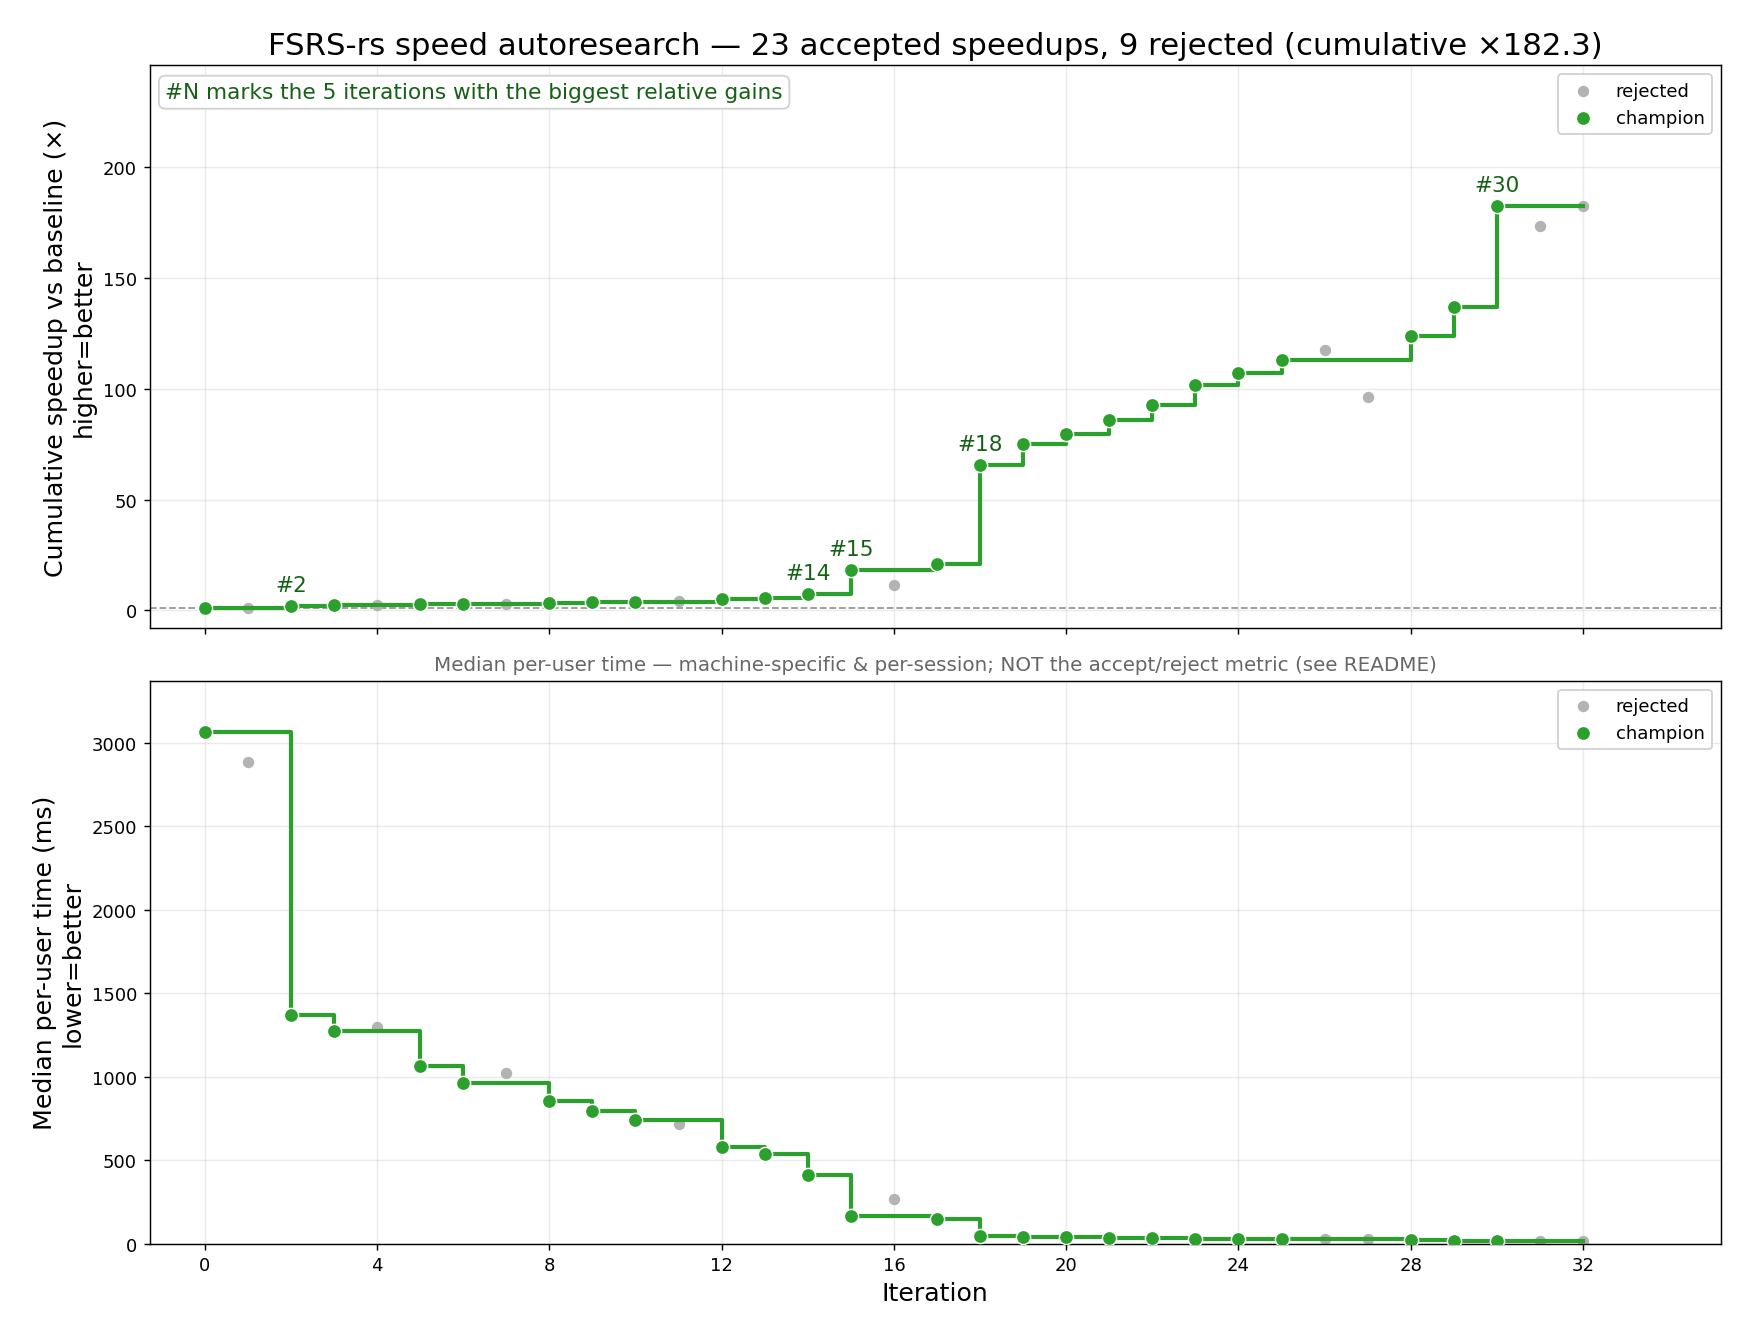
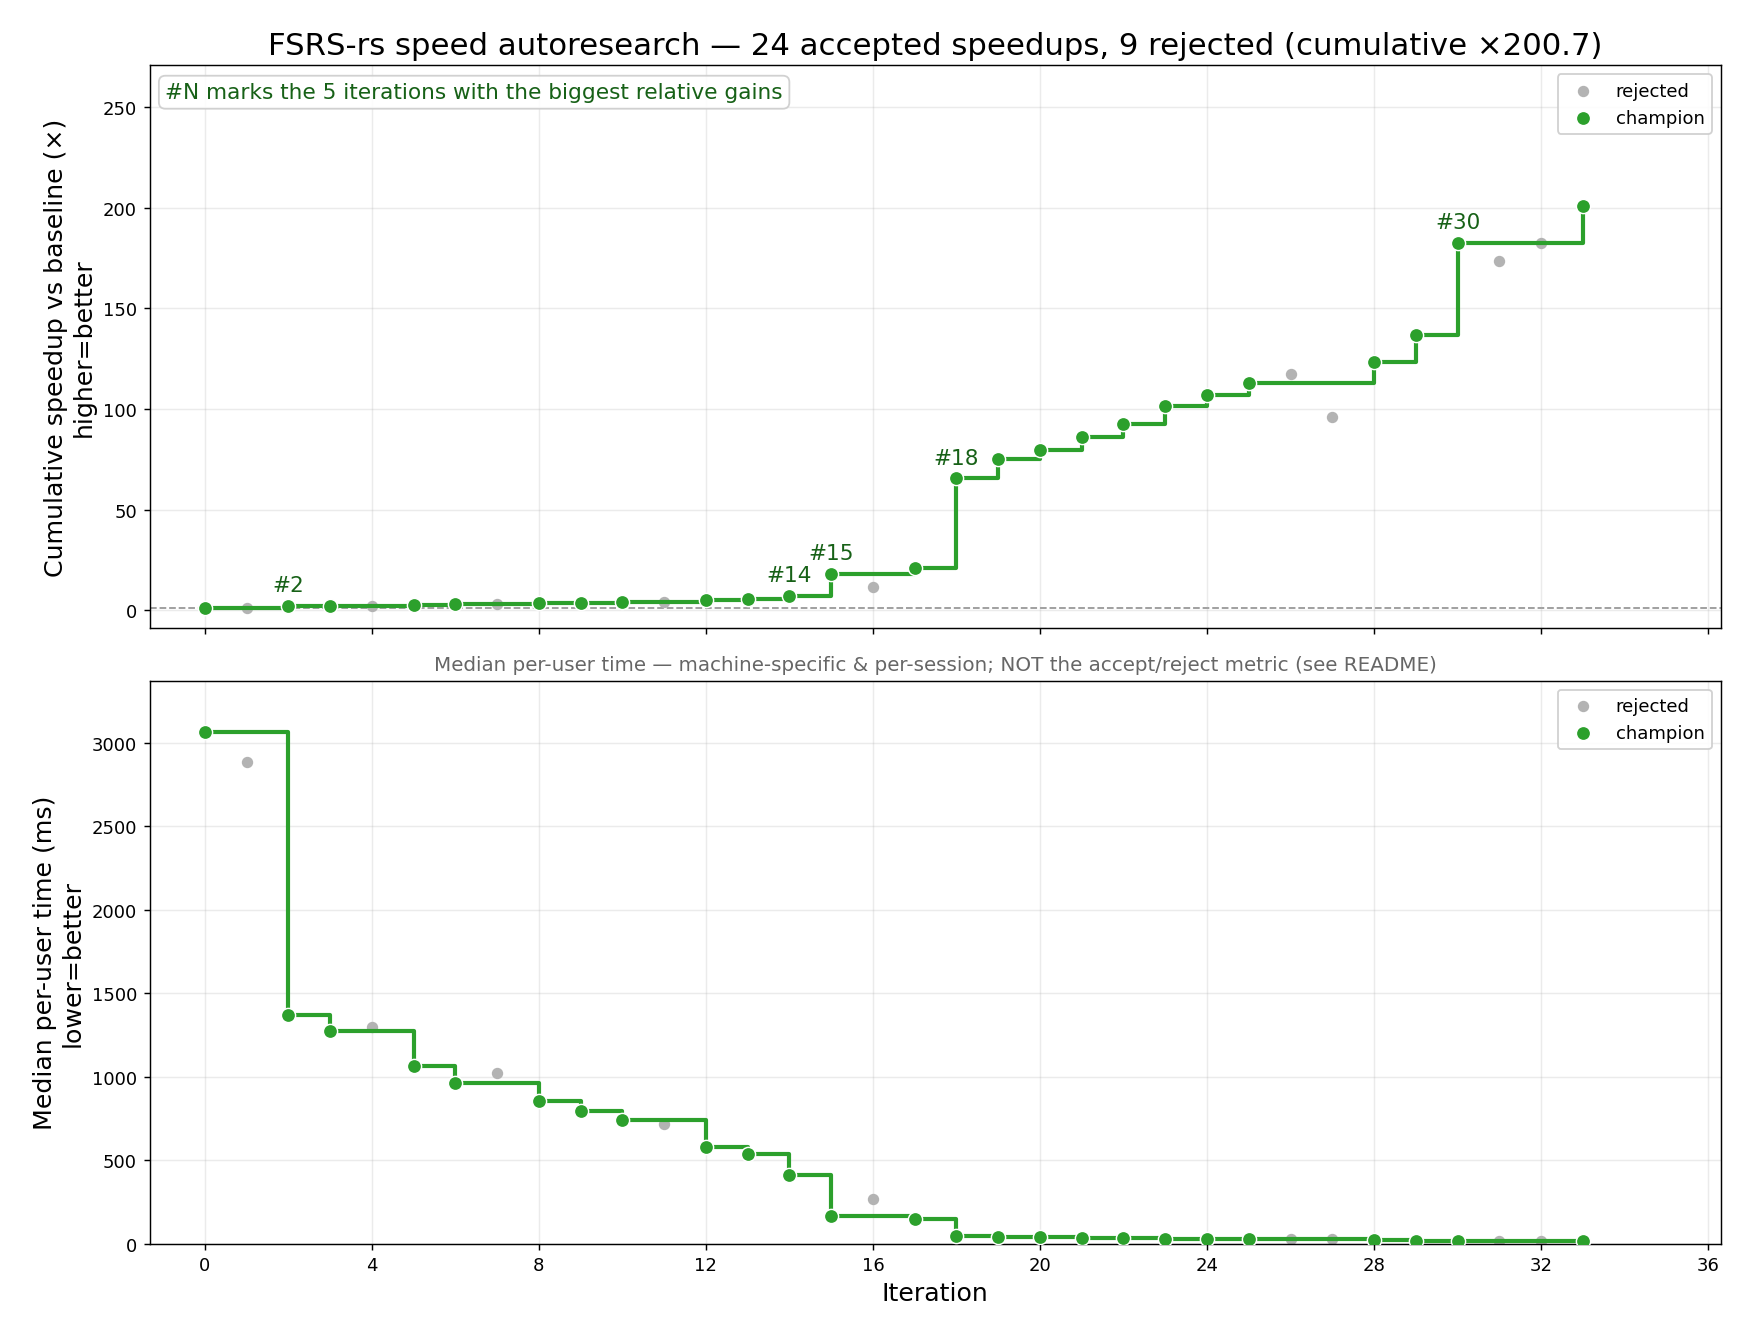
iter33 ACCEPTED: exp8 single-convert rounding + peel first step + smaller cache (x1.101, bit-for-bit)
On the SSE2 baseline, wide's round()/round_int() carry NaN/overflow fix-ups;
exp8's clamp makes them unnecessary, so one nearest-even convert serves both.

diff --git a/fsrs-rs/src/analytic.rs b/fsrs-rs/src/analytic.rs
@@ -45,8 +45,12 @@ fn clamp8(x: f32x8, lo: f32, hi: f32) -> f32x8 {
 /// so the `true` branch is currently UNUSED (retained for a possible future precision A/B). Portable (c7).
 #[inline(always)]
 fn exp8<const FAST: bool>(x: f32x8) -> f32x8 {
+    // The clamp also maps NaN to -87 (maxps returns its 2nd operand on NaN), so x*LOG2E is finite
+    // and within +-128: ONE plain nearest-even convert gives n exactly as round() did (bit-for-bit),
+    // without round()'s and round_int()'s NaN/overflow fix-ups (~10 extra ops per half on SSE2).
     let x = x.fast_max(f32x8::splat(-87.0)).fast_min(f32x8::splat(88.0));
-    let n = (x * f32x8::splat(LOG2E)).round();
+    let ni = (x * f32x8::splat(LOG2E)).fast_round_int();
+    let n = ni.round_float();
     let r = x - n * f32x8::splat(LN2);
     let c = |v: f32| f32x8::splat(v);
     let p = if FAST {
@@ -56,7 +60,7 @@ fn exp8<const FAST: bool>(x: f32x8) -> f32x8 {
         // degree-3 RELATIVE-minimax (Remez); max rel err 7.5e-5 (profiling/minimax_coeffs.py).
         c(0.999928073539) + r * (c(1.00016418577) + r * (c(0.50496326418) + r * c(0.165668423429)))
     };
-    let bits: i32x8 = (n.round_int() + i32x8::splat(127)) << 23;
+    let bits: i32x8 = (ni + i32x8::splat(127)) << 23;
     let two_n: f32x8 = bytemuck::cast(bits);
     p * two_n
 }
@@ -628,10 +632,6 @@ struct Curve8 {
     out: f32x8,
     a: f32x8,
     bv: f32x8,
-    m1: f32x8,
-    decay1: f32x8,
-    factor1: f32x8,
-    b1: f32x8,
     r1: f32x8,
     q1: f32x8,
     e1: f32x8,
@@ -639,9 +639,6 @@ struct Curve8 {
     b2: f32x8,
     r2: f32x8,
     ex34: f32x8,
-    weight1: f32x8,
-    weight2: f32x8,
-    wsum: f32x8,
     ret: f32x8,
     p31: f32x8,
     se: f32x8,
@@ -694,8 +691,7 @@ fn curve8_fwd<const FAST: bool>(
     let ret = num / wsum;
     let out = ret * k(1.0 - 2e-5) + k(1e-5);
     Curve8 {
-        out, a, bv, m1, decay1, factor1, b1, r1, q1, e1, p35, b2, r2, ex34, weight1, weight2, wsum,
-        ret, p31, se, ln_sf, ln_b1, ln_b2, ln_s,
+        out, a, bv, r1, q1, e1, p35, b2, r2, ex34, ret, p31, se, ln_sf, ln_b1, ln_b2, ln_s,
     }
 }
 
@@ -711,14 +707,22 @@ fn curve8_bwd(
     let k = f32x8::splat;
     let z = k(0.0);
     let t = t.fast_max(z);
+    // Cheap forward values recomputed with curve8_fwd's exact ops (smaller per-step cache).
+    let m1 = sp(23) * c.p35;
+    let decay1 = k(0.0) - clamp8(m1, 0.01, 0.95);
+    let factor1 = c.e1 - k(1.0);
+    let b1 = c.a * factor1 + k(1.0);
+    let weight1 = sp(27) * c.p31;
+    let weight2 = sp(28) * c.se;
+    let wsum = weight1 + weight2;
     let g_ret = g_out * k(1.0 - 2e-5);
-    let g_num = g_ret / c.wsum;
-    let g_wsum = (z - g_ret) * c.ret / c.wsum;
+    let g_num = g_ret / wsum;
+    let g_wsum = (z - g_ret) * c.ret / wsum;
     let g_weight1 = g_num * c.r1 + g_wsum;
     let g_weight2 = g_num * c.r2 + g_wsum;
     // r1 also feeds the short-trace stability update (reads r1, not mixed R) -> g_r1_extra.
-    let g_r1 = g_num * c.weight1 + g_r1_extra;
-    let g_r2 = g_num * c.weight2;
+    let g_r1 = g_num * weight1 + g_r1_extra;
+    let g_r2 = g_num * weight2;
     // weight2 = base_weight2[w28] * se ; se = exp(w30*ln_s + (w31-0.5)*(d-5))  (fused)
     gw[28] += g_weight2 * c.se;
     let g_se = g_weight2 * sp(28) * c.se; // adjoint-on-se times se (shared d(se)/d(.) factor)
@@ -749,19 +753,19 @@ fn curve8_bwd(
     gw[24] += g_m2; // m2 = w24 directly (clamp gate via c.m2)
     g_s += g_bv * (z - t / (s * s)); // bv = t/s
     // r1 = b1^decay1
-    let g_b1 = g_r1 * c.decay1 * (c.r1 / c.b1);
+    let g_b1 = g_r1 * decay1 * (c.r1 / b1);
     let mut g_decay1 = g_r1 * c.r1 * c.ln_b1;
-    let g_a = g_b1 * c.factor1;
+    let g_a = g_b1 * factor1;
     let g_factor1 = g_b1 * c.a;
     let g_e1 = g_factor1;
     let g_q1c = g_e1 * c.e1;
     let g_q1 = c.q1.cmp_lt(k(60.0)).blend(g_q1c, z);
     // q1 = ln(base1) / decay1
-    let g_lw27 = g_q1 / c.decay1;
-    g_decay1 += g_q1 * (z - k(wc.ln_w27) / (c.decay1 * c.decay1));
+    let g_lw27 = g_q1 / decay1;
+    g_decay1 += g_q1 * (z - k(wc.ln_w27) / (decay1 * decay1));
     gw[25] += g_lw27 / sp(25); // ln_base1 = ln(w[25])
     let g_dm1 = z - g_decay1;
-    let g_m1 = (c.m1.cmp_gt(k(0.01)) & c.m1.cmp_lt(k(0.95))).blend(g_dm1, z);
+    let g_m1 = (m1.cmp_gt(k(0.01)) & m1.cmp_lt(k(0.95))).blend(g_dm1, z);
     gw[23] += g_m1 * c.p35; // m1 = decay1[w23] * p35
     let g_p35 = g_m1 * sp(23);
     g_sf += g_p35 * (sp(33) - k(0.3)) * (c.p35 / sf); // p35 = s_short^(s_decay1-0.3)
@@ -774,19 +778,11 @@ fn curve8_bwd(
 struct Stab8 {
     out: f32x8,
     nsf_fail: f32x8,
-    pls: f32x8,
     sinc: f32x8,
-    ls_sinc: f32x8,
-    aa: f32x8,
-    bb: f32x8,
     cc: f32x8,
     expr: f32x8,
     pr: f32x8,
     qbase: f32x8,
-    hard: f32x8,
-    easy: f32x8,
-    ln_ls: f32x8,
-    ln_ld: f32x8,
     ln_ls1: f32x8,
 }
 
@@ -794,7 +790,7 @@ struct Stab8 {
 #[inline(always)]
 fn stab8_fwd<const FAST: bool>(
     w: &[f32], last_s: f32x8, last_d: f32x8, r: f32x8, rating: f32x8, start: usize, aa: f32,
-    ln_ls: f32x8, ln_ld: f32x8,
+    ln_ls: f32x8,
 ) -> Stab8 {
     let sp = |i: usize| f32x8::splat(w[i]);
     let k = f32x8::splat;
@@ -804,7 +800,7 @@ fn stab8_fwd<const FAST: bool>(
     let ln_ls1 = ln8::<FAST>(last_s + one);
     let qbase = exp8::<FAST>(sp(start + 4) * ln_ls1); // (last_s+1)^fail_s_exp[start+4]
     // fail_d_exp DROPPED: post-lapse stability is D-independent, so the legacy `pr` cache field now
-    // holds just rexp (no pp = last_d^-fail_d_exp factor; ln_ld unused, kept in cache for layout).
+    // holds just rexp (no pp = last_d^-fail_d_exp factor, so ln(last_d) is not needed).
     let pr = exp8::<FAST>((one - r) * sp(start + 5)); // rexp = exp((1-r)*fail_r_mult[start+5])
     let nsf_fail = sp(start + 3) * pr * (qbase - one);
     let pls = last_s.fast_min(nsf_fail);
@@ -816,10 +812,7 @@ fn stab8_fwd<const FAST: bool>(
     let ls_sinc = last_s * sinc;
     let nss = pls.fast_max(ls_sinc);
     let out = rating.cmp_gt(one).blend(nss, pls);
-    Stab8 {
-        out, nsf_fail, pls, sinc, ls_sinc, aa: aa8, bb, cc, expr, pr, qbase, hard, easy,
-        ln_ls, ln_ld, ln_ls1,
-    }
+    Stab8 { out, nsf_fail, sinc, cc, expr, pr, qbase, ln_ls1 }
 }
 
 /// VJP of stab8_fwd (f32x8 analogue of stab_bwd). Returns (g_last_s, g_last_d, g_r).
@@ -827,19 +820,25 @@ fn stab8_fwd<const FAST: bool>(
 #[inline(always)]
 fn stab8_bwd(
     w: &[f32], c: &Stab8, last_s: f32x8, last_d: f32x8, r: f32x8, rating: f32x8, start: usize,
-    g_out: f32x8, gw: &mut [f32x8; 34],
+    aa: f32, ln_ls: f32x8, g_out: f32x8, gw: &mut [f32x8; 34],
 ) -> (f32x8, f32x8, f32x8) {
     let sp = |i: usize| f32x8::splat(w[i]);
     let k = f32x8::splat;
     let one = k(1.0);
     let z = k(0.0);
-    let _ = last_d; // post-lapse stability is D-independent now (fail_d_exp dropped)
+    // aa / hard / easy / ln_ls are recomputed or passed in (not cached): the same values stab8_fwd used.
+    let aa = k(aa);
+    let hard = rating.cmp_eq(k(2.0)).blend(sp(start + 6), one);
+    let easy = rating.cmp_eq(k(4.0)).blend(sp(start + 7), one);
+    let pls = last_s.fast_min(c.nsf_fail);
+    let ls_sinc = last_s * c.sinc;
+    let bb = k(11.0) - last_d;
     let gt1 = rating.cmp_gt(one);
     let g_nss = gt1.blend(g_out, z);
     let g_pls_direct = gt1.blend(z, g_out);
     // nss = max(pls, ls_sinc)  (ties to pls, matching the scalar >= / > split)
-    let g_pls_from_nss = c.pls.cmp_ge(c.ls_sinc).blend(g_nss, z);
-    let g_ls_sinc = c.ls_sinc.cmp_gt(c.pls).blend(g_nss, z);
+    let g_pls_from_nss = pls.cmp_ge(ls_sinc).blend(g_nss, z);
+    let g_ls_sinc = ls_sinc.cmp_gt(pls).blend(g_nss, z);
     let mut g_last_s = g_ls_sinc * c.sinc;
     let g_sinc = g_ls_sinc * last_s;
     let g_pls = g_pls_direct + g_pls_from_nss;
@@ -849,16 +848,16 @@ fn stab8_bwd(
     // sinc = aa*bb*cc*(expr-1)*hard*easy + 1
     let em1 = c.expr - one;
     let g_prod = g_sinc;
-    let prod = c.aa * c.bb * c.cc * em1 * c.hard * c.easy;
+    let prod = aa * bb * c.cc * em1 * hard * easy;
     gw[start] += g_prod * prod; // aa = exp(w[start]-1.5); dprod/dw[start] = prod
-    let g_bb = g_prod * (c.aa * c.cc * em1 * c.hard * c.easy);
-    let g_cc = g_prod * (c.aa * c.bb * em1 * c.hard * c.easy);
-    let g_em1 = g_prod * (c.aa * c.bb * c.cc * c.hard * c.easy);
-    gw[start + 6] += rating.cmp_eq(k(2.0)).blend(g_prod * (c.aa * c.bb * c.cc * em1 * c.easy), z); // hard_penalty
-    gw[start + 7] += rating.cmp_eq(k(4.0)).blend(g_prod * (c.aa * c.bb * c.cc * em1 * c.hard), z); // easy_bonus
+    let g_bb = g_prod * (aa * c.cc * em1 * hard * easy);
+    let g_cc = g_prod * (aa * bb * em1 * hard * easy);
+    let g_em1 = g_prod * (aa * bb * c.cc * hard * easy);
+    gw[start + 6] += rating.cmp_eq(k(2.0)).blend(g_prod * (aa * bb * c.cc * em1 * easy), z); // hard_penalty
+    gw[start + 7] += rating.cmp_eq(k(4.0)).blend(g_prod * (aa * bb * c.cc * em1 * hard), z); // easy_bonus
     let g_last_d = g_bb * (z - one); // bb = 11 - last_d (the ONLY D-dependence of stab now)
     g_last_s += g_cc * k(-w[start + 1]) * (c.cc / last_s);
-    gw[start + 1] += g_cc * (z - c.cc * c.ln_ls);
+    gw[start + 1] += g_cc * (z - c.cc * ln_ls);
     // expr = exp((1-r)*w[start+2])
     let mut g_r = g_em1 * c.expr * k(-w[start + 2]);
     gw[start + 2] += g_em1 * c.expr * (one - r);
@@ -960,11 +959,10 @@ pub(crate) fn batch_loss_simd(
                 let sf_c = clamp8(sf, S_MIN, S_MAX);
                 let ln_s = ln8::<false>(s_c);
                 let ln_sf = ln8::<false>(sf_c);
-                let ln_d = ln8::<false>(d_c);
                 let curve = curve8_fwd::<false>(w, dt, s_c, sf_c, d_c, &wc, ln_s, ln_sf);
                 let rr = curve.out;
-                let ns = stab8_fwd::<false>(w, s_c, d_c, rr, rating, 7, wc.aa7, ln_s, ln_d).out;
-                let nsf_raw = stab8_fwd::<false>(w, sf_c, d_c, curve.r1, rating, 15, wc.aa16, ln_sf, ln_d).out;
+                let ns = stab8_fwd::<false>(w, s_c, d_c, rr, rating, 7, wc.aa7, ln_s).out;
+                let nsf_raw = stab8_fwd::<false>(w, sf_c, d_c, curve.r1, rating, 15, wc.aa16, ln_sf).out;
                 // POST-LAPSE short reset: on a lapse cap s_short at 0.8 * post-lapse s_long.
                 let nsf = rating.cmp_eq(one).blend(nsf_raw.fast_min(k(0.8) * ns), nsf_raw);
                 let nd = next_d8_fwd(w, d_c, rating, rr, wc.init).0;
@@ -1024,9 +1022,6 @@ enum Step8 {
         s0: f32x8,
         d0: f32x8,
         sf0: f32x8,
-        last_s: f32x8,
-        last_sf: f32x8,
-        last_d: f32x8,
         rating: f32x8,
         dt: f32x8,
         curve: Curve8,
@@ -1034,8 +1029,6 @@ enum Step8 {
         fast: Stab8,
         nd_out_pre: f32x8,
         nd_delta_d: f32x8,
-        ns3: f32x8,
-        nsf3: f32x8,
     },
 }
 
@@ -1084,12 +1077,11 @@ fn step8_fwd<const FAST: bool>(
         let dt = dt_raw.fast_max(k(0.0));
         let ln_last_s = ln8::<FAST>(last_s);
         let ln_last_sf = ln8::<FAST>(last_sf);
-        let ln_last_d = ln8::<FAST>(last_d);
         let curve = curve8_fwd::<FAST>(w, dt, last_s, last_sf, last_d, wc, ln_last_s, ln_last_sf);
         let r = curve.out;
         let r1 = curve.r1; // short component recall — drives the short-trace update (iter-71)
-        let slow = stab8_fwd::<FAST>(w, last_s, last_d, r, rating, 7, wc.aa7, ln_last_s, ln_last_d);
-        let fast = stab8_fwd::<FAST>(w, last_sf, last_d, r1, rating, 15, wc.aa16, ln_last_sf, ln_last_d);
+        let slow = stab8_fwd::<FAST>(w, last_s, last_d, r, rating, 7, wc.aa7, ln_last_s);
+        let fast = stab8_fwd::<FAST>(w, last_sf, last_d, r1, rating, 15, wc.aa16, ln_last_sf);
         let (nd, nd_out_pre, nd_delta_d) = next_d8_fwd(w, last_d, rating, r, wc.init);
         // POST-LAPSE short reset (iter-97): on a lapse cap s_short at 0.8 * post-lapse s_long.
         let nsf_pre = rating.cmp_eq(one).blend(fast.out.fast_min(k(0.8) * slow.out), fast.out);
@@ -1102,8 +1094,7 @@ fn step8_fwd<const FAST: bool>(
         (
             out,
             Step8::Full {
-                s0, d0, sf0, last_s, last_sf, last_d, rating, dt, curve, slow, fast,
-                nd_out_pre, nd_delta_d, ns3, nsf3,
+                s0, d0, sf0, rating, dt, curve, slow, fast, nd_out_pre, nd_delta_d,
             },
         )
     }
@@ -1142,14 +1133,20 @@ fn step8_bwd(
             (z, z, z)
         }
         Step8::Full {
-            s0, d0, sf0, last_s, last_sf, last_d, rating, dt, curve, slow, fast, nd_out_pre,
-            nd_delta_d, ns3, nsf3,
+            s0, d0, sf0, rating, dt, curve, slow, fast, nd_out_pre, nd_delta_d,
         } => {
+            // Cheap forward values recomputed with step8_fwd's exact ops (smaller per-step cache).
+            let last_s = clamp8(*s0, S_MIN, S_MAX);
+            let last_d = clamp8(*d0, D_MIN, D_MAX);
+            let last_sf = clamp8(*sf0, S_MIN, S_MAX);
+            let m0 = rating.cmp_eq(z);
+            let ns3 = m0.blend(last_s, slow.out);
+            let nsf_pre = rating.cmp_eq(one).blend(fast.out.fast_min(k(0.8) * slow.out), fast.out);
+            let nsf3 = m0.blend(last_sf, nsf_pre);
             let g_ns3 = (ns3.cmp_gt(k(S_MIN)) & ns3.cmp_lt(k(S_MAX))).blend(g_ns_out, z);
             let g_nsf3 = (nsf3.cmp_gt(k(S_MIN)) & nsf3.cmp_lt(k(S_MAX))).blend(g_nsf_out, z);
             let g_nd3 = g_nd_out;
             // rating==0 padding: output state == input state, so the adjoint flows straight through.
-            let m0 = rating.cmp_eq(z);
             let g_ns2 = m0.blend(z, g_ns3);
             let g_nsf2 = m0.blend(z, g_nsf3); // adjoint on nsf_pre
             let g_nd2 = m0.blend(z, g_nd3);
@@ -1163,14 +1160,20 @@ fn step8_bwd(
             let g_slow_from_relearn = is_lapse.blend(fast_wins.blend(z, g_nsf2 * k(0.8)), z);
             // LONG stab reads mixed retention curve.out; SHORT stab reads r1=curve.r1 (start 15).
             let (g_ls_a, g_ld_a, g_r_long) =
-                stab8_bwd(w, slow, *last_s, *last_d, curve.out, *rating, 7, g_ns2 + g_slow_from_relearn, gw);
+                stab8_bwd(
+                    w, slow, last_s, last_d, curve.out, *rating, 7, wc.aa7, curve.ln_s,
+                    g_ns2 + g_slow_from_relearn, gw,
+                );
             let (g_lsf_b, g_ld_b, g_r1_short) =
-                stab8_bwd(w, fast, *last_sf, *last_d, curve.r1, *rating, 15, g_fast_out, gw);
+                stab8_bwd(
+                    w, fast, last_sf, last_d, curve.r1, *rating, 15, wc.aa16, curve.ln_sf, g_fast_out,
+                    gw,
+                );
             let (g_ld_c, g_r_nextd) =
-                next_d8_bwd(w, *nd_out_pre, *nd_delta_d, *last_d, *rating, curve.out, g_nd2, gw, wc.exp3w5);
+                next_d8_bwd(w, *nd_out_pre, *nd_delta_d, last_d, *rating, curve.out, g_nd2, gw, wc.exp3w5);
             // curve.out adjoint = long-stab r + windowed loss adjoint + next_d r; curve.r1 = short-stab r.
             let (g_ls_d, g_lsf_d, g_ld_d) = curve8_bwd(
-                w, curve, *dt, *last_s, *last_sf, *last_d, g_r_long + g_r_loss + g_r_nextd, g_r1_short,
+                w, curve, *dt, last_s, last_sf, last_d, g_r_long + g_r_loss + g_r_nextd, g_r1_short,
                 gw, wc,
             );
             let g_last_s = g_ls_a + g_ls_d + g_last_s_extra;
@@ -1333,15 +1336,17 @@ pub(crate) fn card_loss_and_grad_simd(
         let (mut s, mut d, mut sf) = (z, z, z);
         // Forward over every step EXCEPT the last (full step + cache). The last step's stability/
         // next-difficulty update feeds no t+1, so we compute its curve only (just below) — exactly
-        // like card_loss_simd's validation skip-last.
-        for t in 0..seq_len - 1 {
+        // like card_loss_simd's validation skip-last. The first review (t==0) is peeled off, so the
+        // loop body has no t==0 branch.
+        let (ns, cache) = step8_fwd::<false>(w, z, load8(r_hist, c0), (s, d, sf), true, &wc);
+        (s, d, sf) = ns;
+        caches.push(cache);
+        for t in 1..seq_len - 1 {
             let base = t * batch + c0;
-            let rating = load8(r_hist, base);
-            let dt = if t == 0 { z } else { load8(t_hist, base) };
-            let (ns, cache) = step8_fwd::<false>(w, dt, rating, (s, d, sf), t == 0, &wc);
-            s = ns.0;
-            d = ns.1;
-            sf = ns.2;
+            let (ns, cache) = step8_fwd::<false>(
+                w, load8(t_hist, base), load8(r_hist, base), (s, d, sf), false, &wc,
+            );
+            (s, d, sf) = ns;
             caches.push(cache);
         }
         // Last step (t = seq_len-1, always >= 1): curve ONLY, from the clamped incoming state — the
@@ -1364,18 +1369,12 @@ pub(crate) fn card_loss_and_grad_simd(
         let mut g_s = (s.cmp_gt(k(S_MIN)) & s.cmp_lt(k(S_MAX))).blend(g_ls, z);
         let mut g_d = (d.cmp_gt(k(D_MIN)) & d.cmp_lt(k(D_MAX))).blend(g_ld, z);
         let mut g_sf = (sf.cmp_gt(k(S_MIN)) & sf.cmp_lt(k(S_MAX))).blend(g_lsf, z);
-        for t in (0..seq_len - 1).rev() {
-            let g_r_loss = if t == 0 {
-                z // init step: no prediction (min surviving prefix length is 2).
-            } else {
-                g_r_loss_at(caches[t].curve_out(), t * batch + c0)
-            };
-            let (gs0, gd0, gsf0) =
-                step8_bwd(w, &caches[t], (g_s, g_d, g_sf), g_r_loss, &mut gw_g, &wc);
-            g_s = gs0;
-            g_d = gd0;
-            g_sf = gsf0;
+        for t in (1..seq_len - 1).rev() {
+            let g_r_loss = g_r_loss_at(caches[t].curve_out(), t * batch + c0);
+            (g_s, g_d, g_sf) = step8_bwd(w, &caches[t], (g_s, g_d, g_sf), g_r_loss, &mut gw_g, &wc);
         }
+        // init step (t==0): no prediction (min surviving prefix length is 2).
+        step8_bwd(w, &caches[0], (g_s, g_d, g_sf), z, &mut gw_g, &wc);
         for i in 0..34 {
             gw[i] += gw_g[i].reduce_add() as f64;
         }

diff --git a/result/history.md b/result/history.md
@@ -37,6 +37,7 @@ Accept metric: **median per-user speed_ratio ≥ 1.05** (constraint 12) AND **sp
 | 30 | 22 | 15 | 1.333 | 10601 | 10607 | 1.001 | 1.001 | ✓ | accepted | Force-inline the SIMD step, curve, stability and difficulty functions into the time loops |
 | 31 | 14 | 16 | 0.951 | 10607 | 10607 | 1.000 | 1.000 | ✓ | rejected | Build the binding with fat LTO and one codegen unit |
 | 32 | 14 | 16 | 1.000 | 10602 | 10712 | 1.010 | 1.026 | ✓ | rejected | Run two 8-card groups in lockstep so their recurrences overlap |
+| 33 | 14 | 13 | 1.101 | 10607 | 10603 | 1.000 | 0.999 | ✓ | accepted | Stack: exp8 single-convert rounding, peel first step, drop dead/cheap cache fields |
 
-**Cumulative speed_ratio (product of accepted): ×182.333** — upward-biased (winner's curse); anchor periodically vs iter-0 baseline.
+**Cumulative speed_ratio (product of accepted): ×200.748** — upward-biased (winner's curse); anchor periodically vs iter-0 baseline.
 
